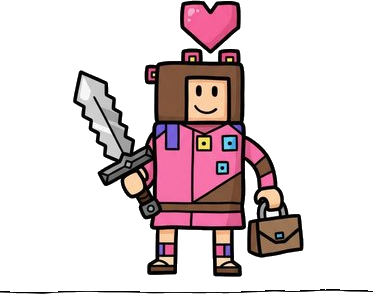
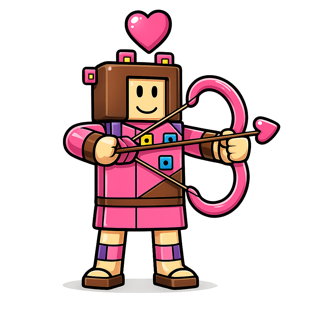
Reorganize Characters section + add 3 Sportini characters
Projects section overhaul:
- Remove Games tab (redundant with the My Games pill in PlayGame section)
- Add Rarity filter (All · Common · Rare · Legendary · Brainrot God ·
  Secret · Limited · OG) — Limited sits near the top as the collector-
  edition rarity, between Secret and OG
- Drop the subtitle paragraph under "My creations"
- Strip emojis from filter labels and stop animating the filter row (the
  reveal fade was hiding the tabs on initial scroll)
- Attach a class (Lovini/Partini/Robotini/Sportini) to each character so
  we can wire class filters back in later

Character roster:
- Romantini Grandini: Limited → Common
- Noobini Partyini renamed → Pizzini Partyini
- Art refresh: 01_noobini_lovini.png, 02_la_romantic_grande.png
- +3 Sportini (new): Stick Stick (Secret, 9.5x), No My Pucks
  (Secret, 12x), Hockey Bros (Limited, 22x)

diff --git a/app/components/Projects.tsx b/app/components/Projects.tsx
@@ -3,25 +3,43 @@
 import { useState } from "react";
 import { useReveal } from "../hooks/useReveal";
 
-const categories = ["Characters", "Games", "Backgrounds"] as const;
+const categories = ["Characters", "Backgrounds"] as const;
+
+// Character classes — thematic families grouping characters by vibe
+const CHARACTER_CLASSES = ["All", "Lovini", "Partini", "Robotini", "Sportini"] as const;
+type CharacterClass = typeof CHARACTER_CLASSES[number];
+
+const classMeta: Record<Exclude<CharacterClass, "All">, { emoji: string; desc: string; color: string }> = {
+  Lovini:   { emoji: "💖", desc: "Emotion characters",  color: "#ff1493" },
+  Partini:  { emoji: "🎉", desc: "Chaos characters",     color: "#ffd700" },
+  Robotini: { emoji: "🤖", desc: "Tech characters",      color: "#00d4ff" },
+  Sportini: { emoji: "🏆", desc: "Sports characters",    color: "#30d158" },
+};
 
 const characters = [
-  { name: "Noobini Lovini", file: "01_noobini_lovini.png", rarity: "Common", mult: "1x", color: "#ff69b4" },
-  { name: "Romantini Grandini", file: "02_la_romantic_grande.png", rarity: "Limited", mult: "1.5x", color: "#e74c3c" },
-  { name: "Lovini Lovini Lovini", file: "03_lovini_lovini_lovini.png", rarity: "Brainrot God", mult: "2x", color: "#ff1493" },
-  { name: "Teddini & Robotini", file: "04_teddy_and_rosie.png", rarity: "Legendary", mult: "2.5x", color: "#c8894f" },
-  { name: "Noobini Partini", file: "05_noobini_partini.png", rarity: "Brainrot God", mult: "3x", color: "#ff6347" },
-  { name: "Cakini Presintini", file: "06_cakini_and_presintini.png", rarity: "Secret", mult: "3.5x", color: "#ff8c00" },
-  { name: "Lovini Rosetti", file: "07_lovin_rose.png", rarity: "Rare", mult: "4x", color: "#4db8db" },
-  { name: "Heartini Smilekurro", file: "08_heartini_smilekur.png", rarity: "Common", mult: "4.5x", color: "#40c4c4" },
-  { name: "Dragini Partini", file: "09_dragon_partyini.png", rarity: "OG", mult: "5x", color: "#ffd700" },
-  { name: "Cupidini Sahuroni", file: "10_cupid_cupid_sahur.png", rarity: "Legendary", mult: "5.5x", color: "#ff1493" },
-  { name: "Rositti Tueletti", file: "11_rositti_tueletti.png", rarity: "Rare", mult: "6x", color: "#ba55d3" },
-  { name: "Birthdayini Cardini", file: "12_birthdayini_cardini.png", rarity: "Brainrot God", mult: "6.5x", color: "#ffd700" },
-  { name: "Noobini Partyini", file: "15_noobini_partyini.png", rarity: "Brainrot God", mult: "7x", color: "#2ecc71" },
-  { name: "Noo Mio Heartini", file: "18_noo_my_heart.png", rarity: "Rare", mult: "8x", color: "#8b0000" },
-  { name: "Cupidini Hotspottini", file: "19_cupid_hotspot.png", rarity: "Legendary", mult: "9x", color: "#ff4500" },
+  { name: "Noobini Lovini",     file: "01_noobini_lovini.png",         rarity: "Common",       mult: "1x",   color: "#ff69b4", class: "Lovini" },
+  { name: "Romantini Grandini", file: "02_la_romantic_grande.png",     rarity: "Common",       mult: "1.5x", color: "#e74c3c", class: "Lovini" },
+  { name: "Lovini Lovini Lovini", file: "03_lovini_lovini_lovini.png", rarity: "Brainrot God", mult: "2x",   color: "#ff1493", class: "Lovini" },
+  { name: "Teddini & Robotini", file: "04_teddy_and_rosie.png",        rarity: "Legendary",    mult: "2.5x", color: "#c8894f", class: "Robotini" },
+  { name: "Noobini Partini",    file: "05_noobini_partini.png",        rarity: "Brainrot God", mult: "3x",   color: "#ff6347", class: "Partini" },
+  { name: "Cakini Presintini",  file: "06_cakini_and_presintini.png",  rarity: "Secret",       mult: "3.5x", color: "#ff8c00", class: "Partini" },
+  { name: "Lovini Rosetti",     file: "07_lovin_rose.png",             rarity: "Rare",         mult: "4x",   color: "#4db8db", class: "Lovini" },
+  { name: "Heartini Smilekurro", file: "08_heartini_smilekur.png",     rarity: "Common",       mult: "4.5x", color: "#40c4c4", class: "Lovini" },
+  { name: "Dragini Partini",    file: "09_dragon_partyini.png",        rarity: "OG",           mult: "5x",   color: "#ffd700", class: "Partini" },
+  { name: "Cupidini Sahuroni",  file: "10_cupid_cupid_sahur.png",      rarity: "Legendary",    mult: "5.5x", color: "#ff1493", class: "Lovini" },
+  { name: "Rositti Tueletti",   file: "11_rositti_tueletti.png",       rarity: "Rare",         mult: "6x",   color: "#ba55d3", class: "Lovini" },
+  { name: "Birthdayini Cardini", file: "12_birthdayini_cardini.png",   rarity: "Brainrot God", mult: "6.5x", color: "#ffd700", class: "Partini" },
+  { name: "Pizzini Partyini",   file: "15_noobini_partyini.png",       rarity: "Brainrot God", mult: "7x",   color: "#2ecc71", class: "Partini" },
+  { name: "Noo Mio Heartini",   file: "18_noo_my_heart.png",           rarity: "Rare",         mult: "8x",   color: "#8b0000", class: "Lovini" },
+  { name: "Cupidini Hotspottini", file: "19_cupid_hotspot.png",        rarity: "Legendary",    mult: "9x",   color: "#ff4500", class: "Lovini" },
+  { name: "Stick Stick",        file: "20_stick_stick.png",            rarity: "Secret",       mult: "9.5x", color: "#00d4ff", class: "Sportini" },
+  { name: "No My Pucks",        file: "21_no_my_pucks.png",            rarity: "Secret",       mult: "12x",  color: "#30d158", class: "Sportini" },
+  { name: "Hockey Bros",        file: "22_hockey_bros.png",            rarity: "Limited",      mult: "22x",  color: "#ffe23d", class: "Sportini" },
 ];
+// Order intentional: Limited sits near the top (between Secret and OG) as
+// the "collector's edition" rarity.
+const RARITY_ORDER = ["All", "Common", "Rare", "Legendary", "Brainrot God", "Secret", "Limited", "OG"] as const;
+type Rarity = typeof RARITY_ORDER[number];
 
 const rarityColors: Record<string, string> = {
   Common: "#aaa",
@@ -35,7 +53,7 @@ const rarityColors: Record<string, string> = {
 
 type Project = {
   title: string;
-  category: "Characters" | "Backgrounds" | "Games";
+  category: "Characters" | "Backgrounds";
   image: string;
   emoji: string;
   description: string;
@@ -43,6 +61,7 @@ type Project = {
   featured: boolean;
   rarity?: string;
   mult?: string;
+  charClass?: Exclude<CharacterClass, "All">;
 };
 
 const projects: Project[] = [
@@ -52,11 +71,12 @@ const projects: Project[] = [
     category: "Characters" as const,
     image: `/characters/${ch.file}`,
     emoji: "",
-    description: `${ch.rarity} | ${ch.mult} multiplier`,
+    description: `${ch.class} · ${ch.rarity} · ${ch.mult}`,
     glow: ch.color,
     featured: false,
     rarity: ch.rarity,
     mult: ch.mult,
+    charClass: ch.class as Exclude<CharacterClass, "All">,
   })),
   // Backgrounds — all 19 worlds
   { title: "Candy Dreamland", category: "Backgrounds" as const, image: "/worlds/bg_01.png", emoji: "🍭", description: "Noobini Lovini's sweet world of lollipops and cotton candy.", glow: "#ff69b4", featured: false },
@@ -78,52 +98,41 @@ const projects: Project[] = [
   { title: "Crimson Arena", category: "Backgrounds" as const, image: "/worlds/bg_17.png", emoji: "🔥", description: "Chiclitera Cupidini's fiery battlefield.", glow: "#dc143c", featured: false },
   { title: "Rainy Night", category: "Backgrounds" as const, image: "/worlds/bg_18.png", emoji: "🌧", description: "Noo Mio Heartini's moody midnight rain.", glow: "#8b0000", featured: false },
   { title: "Volcano Throne", category: "Backgrounds" as const, image: "/worlds/bg_19.png", emoji: "🌋", description: "Cupidini Hotspottini's epic lava kingdom.", glow: "#ff4500", featured: false },
-  // Games
-  {
-    title: "Brainrot Clicker",
-    category: "Games" as const,
-    image: "",
-    emoji: "🧠",
-    description: "Tap your way to brainrot mastery. 15 characters, unique worlds, real leaderboard!",
-    glow: "#ffe23d",
-    featured: true,
-  },
-  {
-    title: "??? Mystery Game",
-    category: "Games" as const,
-    image: "",
-    emoji: "🔮",
-    description: "Something big is cooking... Stay tuned!",
-    glow: "#ff2d78",
-    featured: false,
-  },
-  {
-    title: "??? Secret Project",
-    category: "Games" as const,
-    image: "",
-    emoji: "🚀",
-    description: "You're not ready for this one. Coming soon!",
-    glow: "#00d4ff",
-    featured: false,
-  },
 ];
 
 const ITEMS_PER_PAGE = 9;
 
 export default function Projects() {
   const [activeFilter, setActiveFilter] = useState<(typeof categories)[number]>("Characters");
+  const [activeClass, setActiveClass] = useState<CharacterClass>("All");
+  const [activeRarity, setActiveRarity] = useState<Rarity>("All");
   const [page, setPage] = useState(0);
   const ref = useReveal();
 
-  const allFiltered = projects.filter((p) => p.category === activeFilter);
+  const allFiltered = projects.filter((p) => {
+    if (p.category !== activeFilter) return false;
+    if (activeFilter === "Characters") {
+      if (activeClass !== "All" && p.charClass !== activeClass) return false;
+      if (activeRarity !== "All" && p.rarity !== activeRarity) return false;
+    }
+    return true;
+  });
   const totalPages = Math.ceil(allFiltered.length / ITEMS_PER_PAGE);
   const filtered = allFiltered.slice(page * ITEMS_PER_PAGE, (page + 1) * ITEMS_PER_PAGE);
 
-  // Reset page when switching tabs
+  // Count of characters per class so we can show counts in pills
+  const classCounts: Record<string, number> = { All: characters.length };
+  for (const ch of characters) classCounts[ch.class] = (classCounts[ch.class] || 0) + 1;
+
+  // Reset filters when switching primary tab
   const handleFilterChange = (cat: typeof activeFilter) => {
     setActiveFilter(cat);
+    setActiveClass("All");
+    setActiveRarity("All");
     setPage(0);
   };
+  const handleClassChange = (c: CharacterClass) => { setActiveClass(c); setPage(0); };
+  const handleRarityChange = (r: Rarity) => { setActiveRarity(r); setPage(0); };
 
   return (
     <section id="projects" className="relative py-24 md:py-36 overflow-hidden">
@@ -145,46 +154,83 @@ export default function Projects() {
           </span>
         </div>
 
-        <h2 className="reveal font-[family-name:var(--font-display)] text-4xl sm:text-5xl md:text-6xl font-bold tracking-[-0.03em] leading-[1.05] mb-4">
+        <h2 className="reveal font-[family-name:var(--font-display)] text-4xl sm:text-5xl md:text-6xl font-bold tracking-[-0.03em] leading-[1.05] mb-12">
           My <span className="gradient-text">creations</span>
         </h2>
-        <p className="reveal text-white/40 text-lg max-w-xl mb-12 leading-relaxed">
-          Characters, backgrounds, and games — all original brainrot art
-          created by Timur! 🎁
-        </p>
 
-        {/* Filter */}
-        <div className="reveal flex flex-wrap gap-2 mb-12">
-          {categories.map((cat) => {
-            const catEmojis: Record<string, string> = {
-              Games: "🎮",
-              Characters: "👾",
-              Backgrounds: "🌄",
-            };
-            return (
-              <button
-                key={cat}
-                onClick={() => handleFilterChange(cat)}
-                className={`px-5 py-2.5 rounded-xl text-sm font-bold tracking-wide
-                  transition-all duration-300 ease-[cubic-bezier(0.34,1.56,0.64,1)]
-                  hover:scale-110 active:scale-90 hover-wiggle
-                  focus-visible:outline-2 focus-visible:outline-offset-2 focus-visible:outline-neon-blue
-                  ${
-                    activeFilter === cat
-                      ? "text-white shadow-[0_0_20px_rgba(0,212,255,0.3)]"
-                      : "text-white/50 hover:text-white"
-                  }`}
-                style={
+        {/* Primary filter: Characters / Backgrounds */}
+        <div className="flex flex-wrap gap-2 mb-4">
+          {categories.map((cat) => (
+            <button
+              key={cat}
+              onClick={() => handleFilterChange(cat)}
+              className={`px-5 py-2.5 rounded-xl text-sm font-bold tracking-wide
+                transition-all duration-300 ease-[cubic-bezier(0.34,1.56,0.64,1)]
+                hover:scale-110 active:scale-90 hover-wiggle
+                focus-visible:outline-2 focus-visible:outline-offset-2 focus-visible:outline-neon-blue
+                ${
                   activeFilter === cat
-                    ? { background: "linear-gradient(135deg, #00d4ff, #bf5af2)", border: "none" }
-                    : { background: "rgba(255,255,255,0.06)", border: "1px solid rgba(255,255,255,0.1)" }
-                }
-              >
-                {catEmojis[cat]} {cat}
-              </button>
-            );
-          })}
+                    ? "text-white shadow-[0_0_20px_rgba(0,212,255,0.3)]"
+                    : "text-white/50 hover:text-white"
+                }`}
+              style={
+                activeFilter === cat
+                  ? { background: "linear-gradient(135deg, #00d4ff, #bf5af2)", border: "none" }
+                  : { background: "rgba(255,255,255,0.06)", border: "1px solid rgba(255,255,255,0.1)" }
+              }
+            >
+              {cat}
+            </button>
+          ))}
         </div>
+
+        {/* Secondary filters — only show for Characters */}
+        {activeFilter === "Characters" && (
+          <div className="space-y-3 mb-10">
+            {/* Rarity row */}
+            <div className="flex flex-wrap gap-2">
+              <span className="text-xs uppercase tracking-[0.18em] text-white/35 self-center mr-2">Rarity</span>
+              {RARITY_ORDER.map((rar) => {
+                const isActive = activeRarity === rar;
+                const tint = rar === "All" ? "#00d4ff" : rarityColors[rar] || "#aaa";
+                return (
+                  <button
+                    key={rar}
+                    onClick={() => handleRarityChange(rar)}
+                    className={`px-3.5 py-1.5 rounded-full text-xs font-bold tracking-wide
+                      transition-all duration-300 ease-[cubic-bezier(0.34,1.56,0.64,1)]
+                      hover:scale-105 active:scale-95`}
+                    style={
+                      isActive
+                        ? { background: `${tint}22`, color: tint, border: `1px solid ${tint}66`, boxShadow: `0 0 14px ${tint}22` }
+                        : { background: "rgba(255,255,255,0.04)", color: "rgba(255,255,255,0.55)", border: "1px solid rgba(255,255,255,0.08)" }
+                    }
+                  >
+                    {rar}
+                  </button>
+                );
+              })}
+            </div>
+          </div>
+        )}
+        {activeFilter !== "Characters" && <div className="mb-8" />}
+
+        {/* Empty state */}
+        {filtered.length === 0 && (
+          <div className="text-center py-16 px-4">
+            <div className="text-5xl mb-4 opacity-50">
+              {activeFilter === "Characters" && activeClass !== "All" && classMeta[activeClass as Exclude<CharacterClass, "All">]?.emoji}
+            </div>
+            <h3 className="font-[family-name:var(--font-display)] text-2xl font-bold text-white/80 mb-2">
+              No characters here yet
+            </h3>
+            <p className="text-white/40 text-sm max-w-md mx-auto">
+              {activeClass !== "All"
+                ? `The ${activeClass} class is coming soon — new ${classMeta[activeClass as Exclude<CharacterClass, "All">]?.desc.toLowerCase()} are on the way.`
+                : "Try a different filter combination."}
+            </p>
+          </div>
+        )}
 
         {/* Grid */}
         <div className="grid sm:grid-cols-2 lg:grid-cols-3 gap-5">
@@ -247,22 +293,6 @@ export default function Projects() {
                     >
                       Coming Soon
                     </span>
-                  </div>
-                ) : project.category === "Games" ? (
-                  <div className="flex flex-col items-center gap-3">
-                    <span className="text-6xl">{project.emoji}</span>
-                    {project.featured ? (
-                      <a href="https://game.timur.world" target="_blank" rel="noopener noreferrer"
-                        className="px-4 py-2 rounded-full text-sm font-bold tracking-widest uppercase"
-                        style={{ background: "linear-gradient(135deg, #ffe23d, #ff9f0a)", color: "#0f0825" }}>
-                        ▶ Play Now
-                      </a>
-                    ) : (
-                      <span className="px-4 py-2 rounded-full text-sm font-bold tracking-widest uppercase"
-                        style={{ background: "rgba(255,255,255,0.08)", color: "rgba(255,255,255,0.4)", border: "1px solid rgba(255,255,255,0.1)" }}>
-                        Coming Soon
-                      </span>
-                    )}
                   </div>
                 ) : null}
                 <div className="absolute inset-0 pointer-events-none" style={{ background: "linear-gradient(to top, #0f0825, transparent 40%)" }} />
